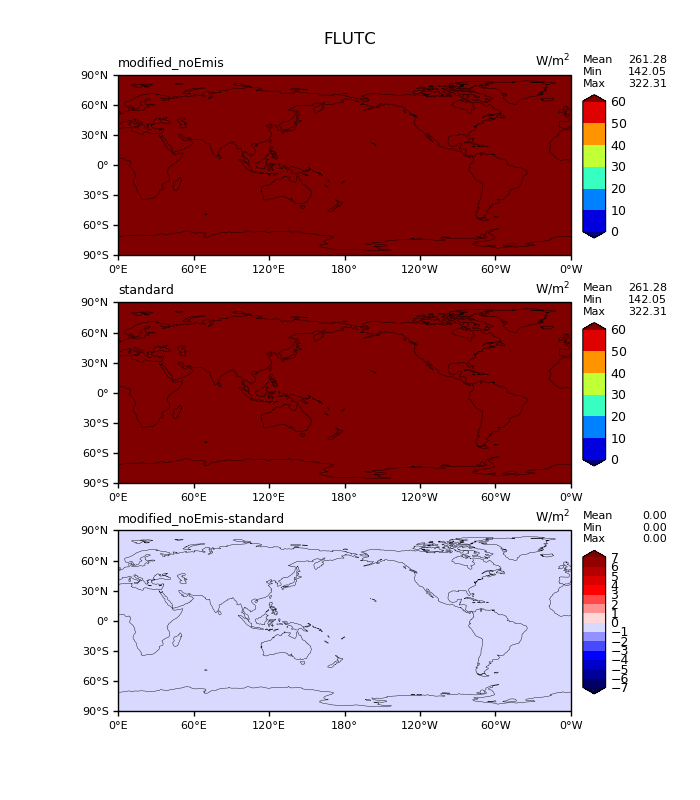
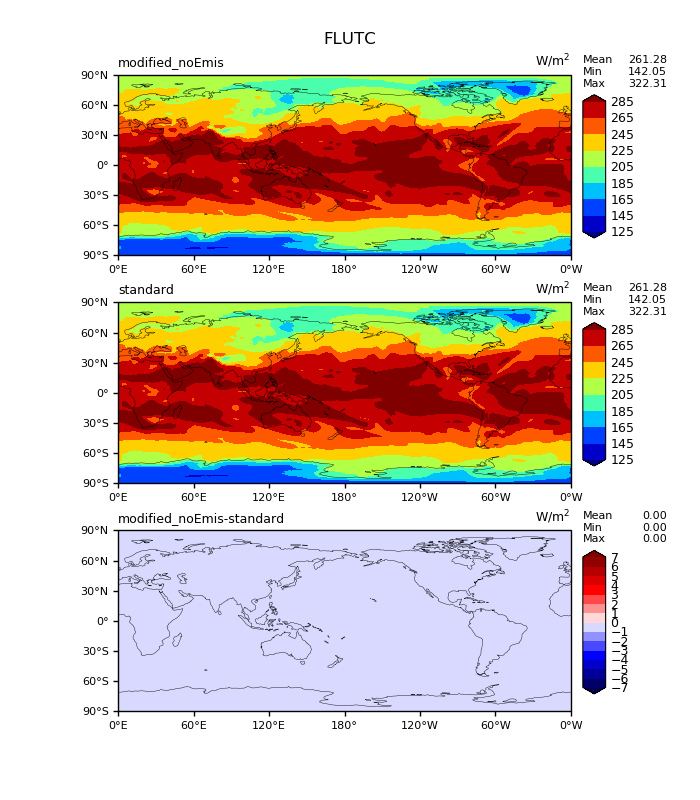
restart debug no ts_atm import

Changed region(s): [[0.15, 0.375, 0.9, 0.625], [0.15, 0.0938, 0.9, 0.3438]]

diff --git a/d1_lon_lat_contour_model_vs_model_sgl.py b/d1_lon_lat_contour_model_vs_model_sgl.py
@@ -107,8 +107,8 @@ for i in range(0,3):
     levels = None
     norm = None
     if i != 2:
-        cnlevels=np.array([0,10,20,30,40,50,60]) #parameters["contour_levs"]
-        #cnlevels=np.arange(125,300,20)
+        #cnlevels=np.array([0,10,20,30,40,50,60]) #parameters["contour_levs"]
+        cnlevels=np.arange(125,300,20)
         #cnlevels=np.arange(70,420,30)
         #cnlevels=np.arange(20,150,10)
         #cnlevels=np.arange(0,80,8)
